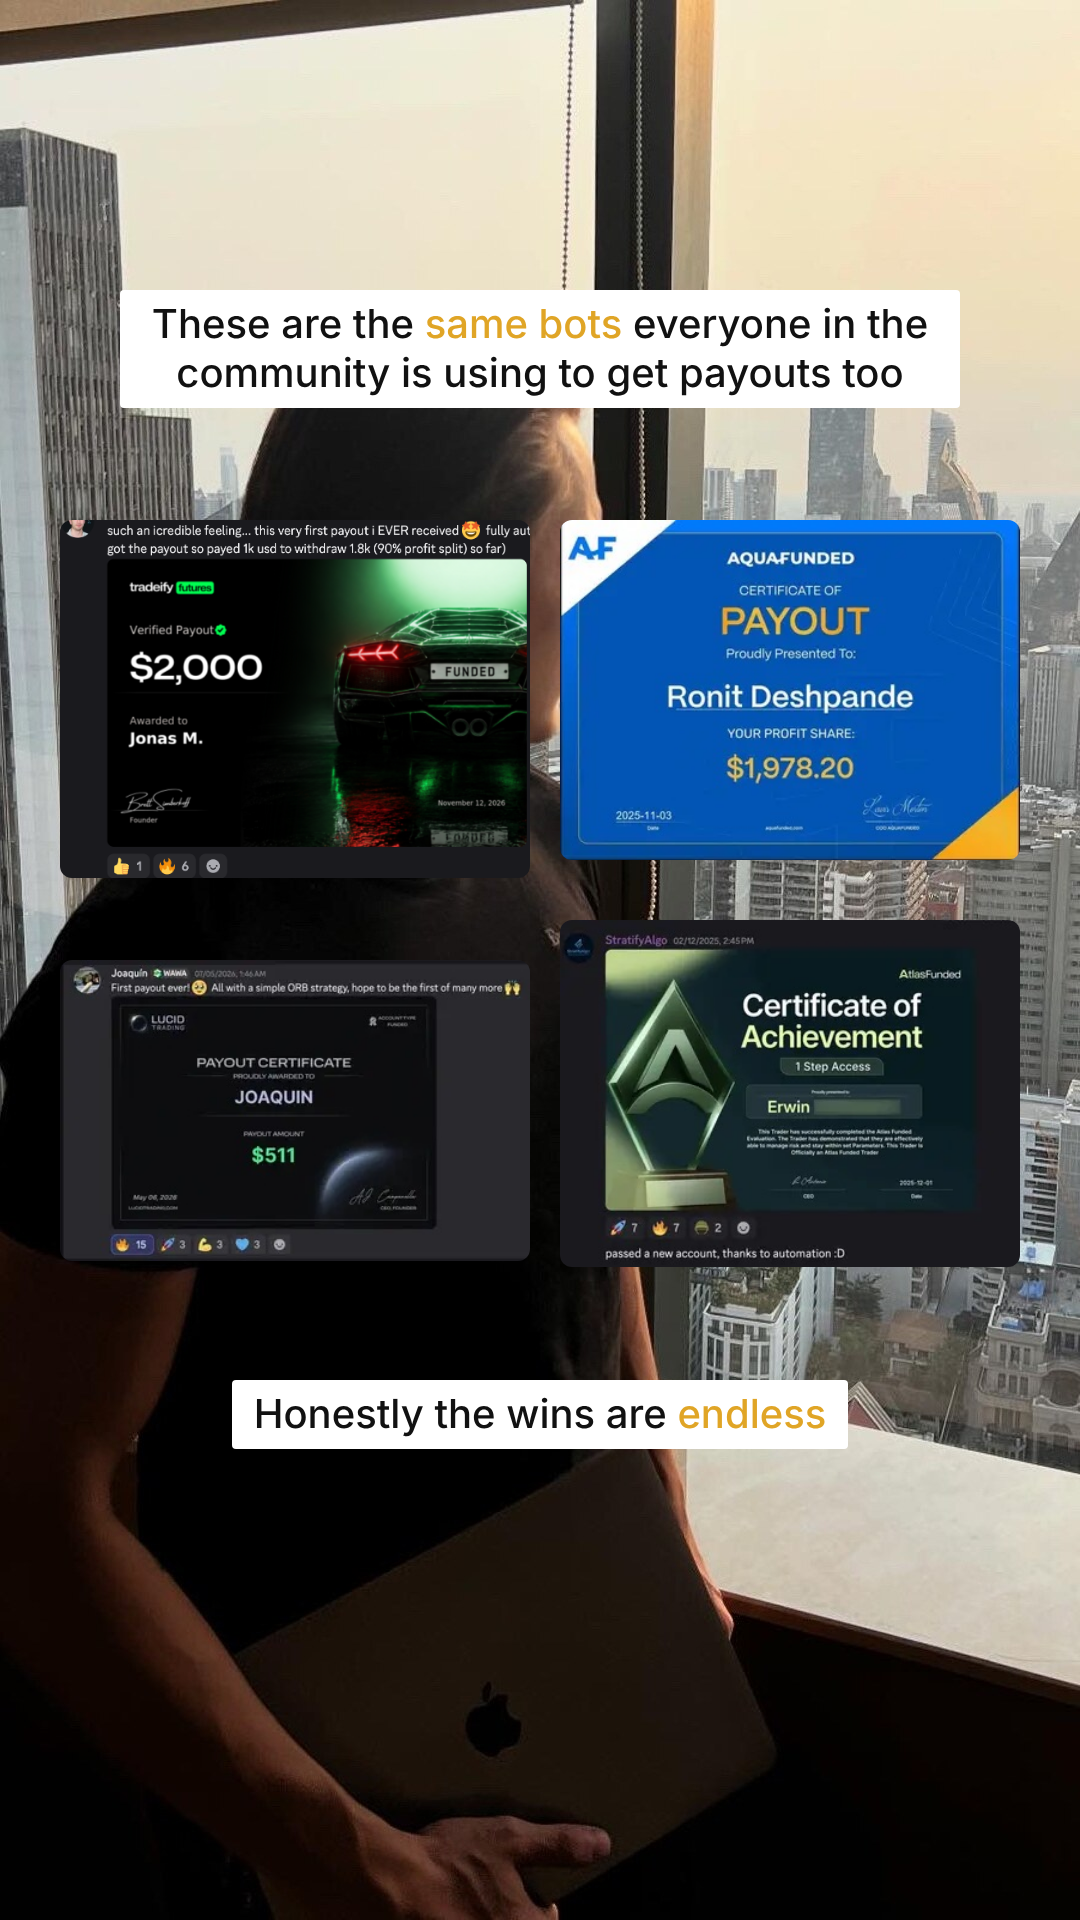
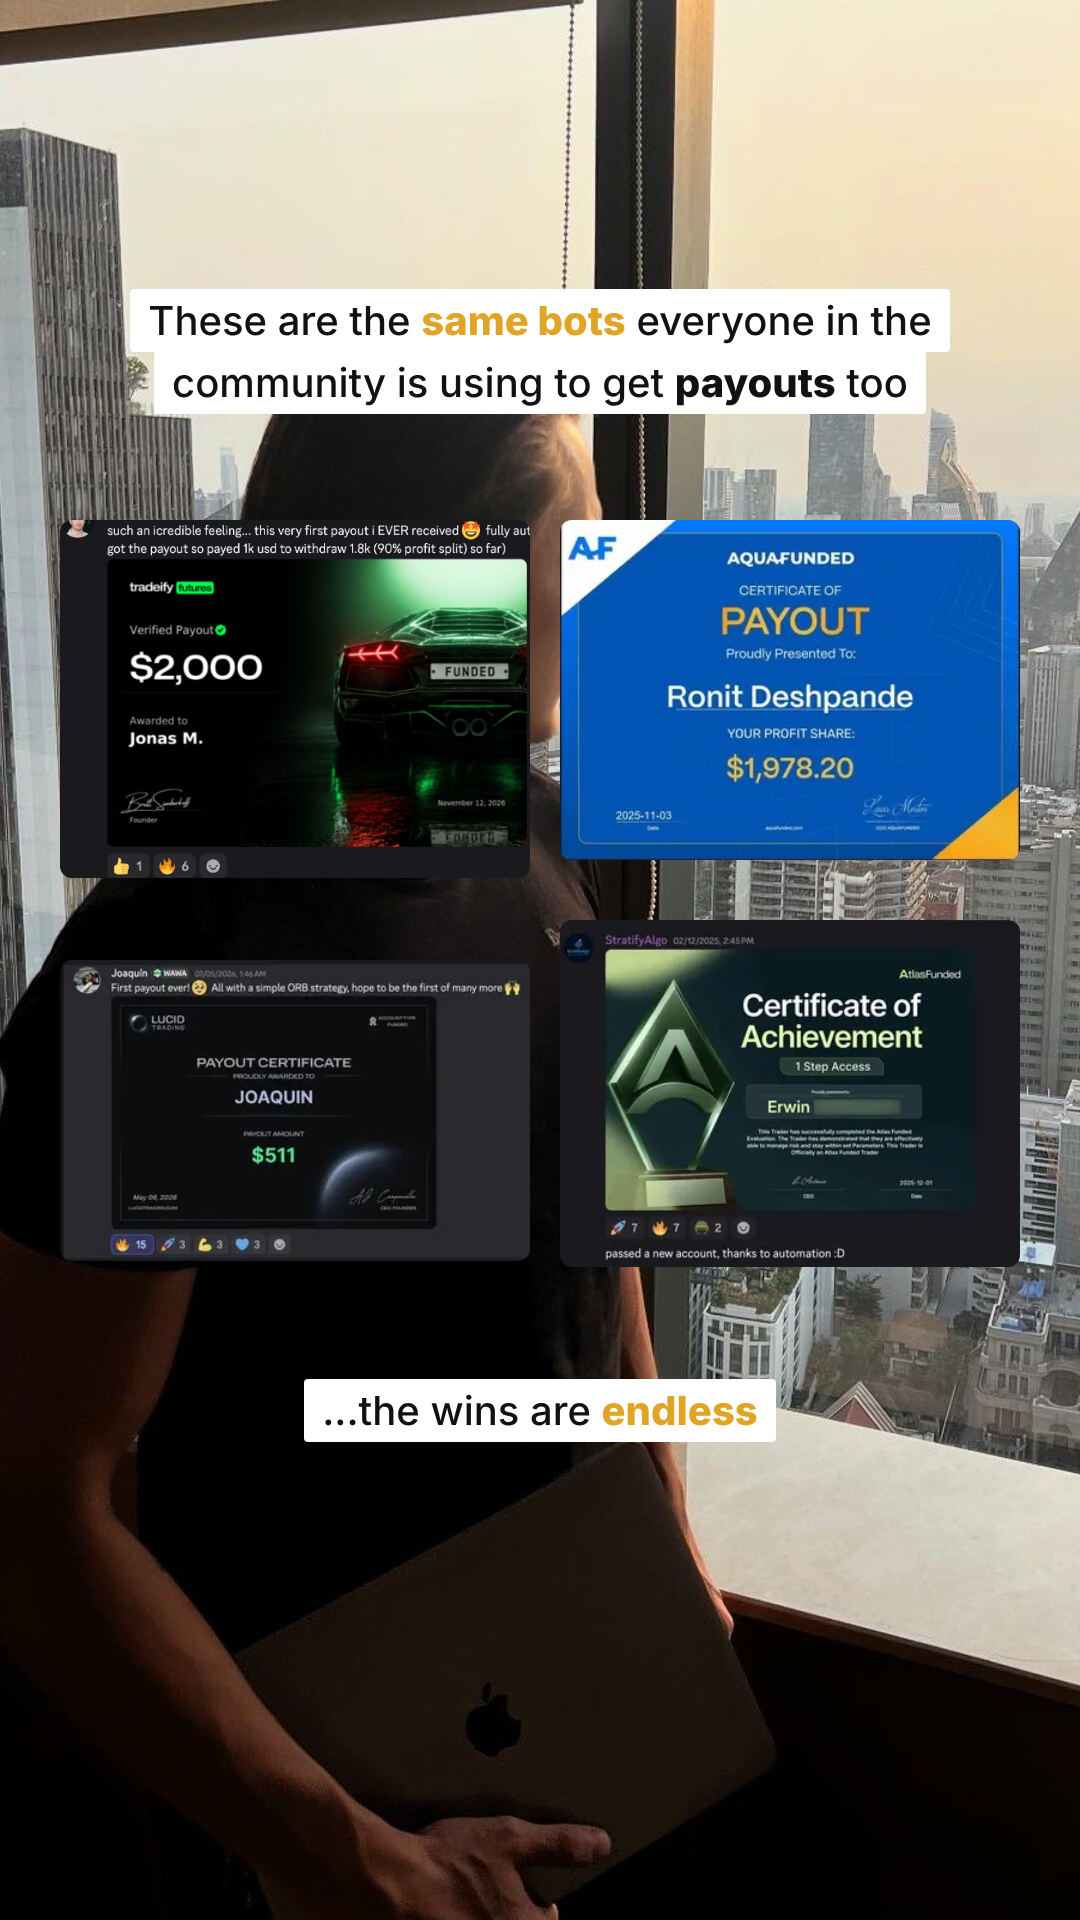
Bots sequence: pool back on frame 1, tight text boxes, bold emphasis
Claude-Session: https://claude.ai/code/session_015aTEPYQAHmzhiX45pd5jFL

Changed region(s): [[0.0917, 0.1562, 0.8861, 0.2188], [0.2139, 0.7188, 0.7944, 0.7812]]

diff --git a/sequences/2026-11-23_soft_bots-i-use/frames/03.html b/sequences/2026-11-23_soft_bots-i-use/frames/03.html
@@ -1,11 +1,11 @@
 <html><head><link rel="stylesheet" href="style.css"></head><body>
 <div class="bg" style="background-image:url(../assets/window.jpg)"></div>
 <div class="stack" style="top:290px">
-<div class="t">These are the <em>same bots</em> everyone in the community is using to get payouts too</div>
+<div class="t"><span>These are the <b><em>same bots</em></b> everyone in the community is using to get <b>payouts</b> too</span></div>
 </div>
 <div class="card" style="left:60px;top:520px;width:470px"><img src="../../../03-backgrounds-larp/student-results/Screenshot 2569-11-13 at 11.26.11.png"></div>
 <div class="card" style="left:560px;top:520px;width:460px"><img src="../../../03-backgrounds-larp/student-results/member24.jpeg"></div>
 <div class="card" style="left:60px;top:960px;width:470px"><img src="../../../03-backgrounds-larp/student-results/member2.jpeg"></div>
 <div class="card" style="left:560px;top:920px;width:460px"><img src="../../../03-backgrounds-larp/student-results/member18.jpeg"></div>
-<div class="stack" style="top:1380px"><div class="t">Honestly the wins are <em>endless</em></div></div>
+<div class="stack" style="top:1380px"><div class="t"><span>...the wins are <b><em>endless</em></b></span></div></div>
 </body></html>

diff --git a/sequences/2026-11-23_soft_bots-i-use/frames/02.html b/sequences/2026-11-23_soft_bots-i-use/frames/02.html
@@ -1,10 +1,10 @@
 <html><head><link rel="stylesheet" href="style.css"></head><body>
 <div class="bg" style="background-image:url(../assets/cafe.jpg)"></div>
 <div class="stack" style="top:290px">
-<div class="t">I don't run 50 bots. I only use <em>3-4</em></div>
-<div class="t">Different bots and strategies I've personally built over the last <em>2.5 years</em></div>
-<div class="t">Because I didn't want to spend hours in front of the charts</div>
-<div class="t">I wanted to make money <em>passively</em></div>
+<div class="t"><span>I don't run 50 bots. I only use <b><em>3-4</em></b></span></div>
+<div class="t"><span>Different bots and strategies I've personally built over the last <em>2.5 years</em></span></div>
+<div class="t"><span>Because I didn't want to spend <b>hours</b> in front of the charts</span></div>
+<div class="t"><span><b>I wanted to make money <em>passively</em></b></span></div>
 </div>
 <div class="card" style="left:70px;top:1100px;width:450px"><img src="../../../03-backgrounds-larp/student-results/member6.jpeg"></div>
 <div class="card" style="left:560px;top:1100px;width:450px"><img src="../../../03-backgrounds-larp/student-results/member9.jpeg"></div>

diff --git a/sequences/2026-11-23_soft_bots-i-use/frames/style.css b/sequences/2026-11-23_soft_bots-i-use/frames/style.css
@@ -1,8 +1,10 @@
 *{margin:0;padding:0;box-sizing:border-box}
 html,body{width:1080px;height:1920px;overflow:hidden;background:#000}
 .bg{position:absolute;inset:0;background-size:cover;background-position:center}
-.stack{position:absolute;left:0;right:0;display:flex;flex-direction:column;align-items:center;gap:16px;padding:0 120px}
-.t{font-family:Inter,sans-serif;font-weight:500;color:#111;background:#fff;font-size:40px;line-height:1.22;text-align:center;padding:10px 22px;border-radius:4px;max-width:840px}
+.stack{position:absolute;left:0;right:0;display:flex;flex-direction:column;align-items:center;gap:8px;padding:0 80px}
+.t{font-family:Inter,sans-serif;font-weight:500;color:#111;font-size:40px;line-height:1.55;text-align:center;max-width:900px;text-wrap:balance}
+.t span{background:#fff;padding:7px 18px;border-radius:4px;-webkit-box-decoration-break:clone;box-decoration-break:clone}
+.t b{font-weight:800}
 .t em{font-style:normal;color:#e0a526}
 .card{position:absolute;border-radius:12px;overflow:hidden}
 .card img{display:block;width:100%}

diff --git a/sequences/2026-11-23_soft_bots-i-use/frames/01.html b/sequences/2026-11-23_soft_bots-i-use/frames/01.html
@@ -1,7 +1,7 @@
 <html><head><link rel="stylesheet" href="style.css"></head><body>
-<div class="bg" style="background-image:url(../assets/suit.jpg)"></div>
-<div class="stack" style="top:1150px">
-<div class="t">Been getting a lot of DMs about my bots lately</div>
-<div class="t">Which ones I actually run, what I use to pass challenges, how I stopped touching the charts</div>
-<div class="t">So here's the honest answer</div>
+<div class="bg" style="background-image:url(../assets/pool.jpg);background-position:60% center"></div>
+<div class="stack" style="top:300px">
+<div class="t"><span>Been getting a lot of DMs about my <b>bots</b> lately</span></div>
+<div class="t"><span>Which ones I actually run, what I use to <b>pass challenges</b>, how I stopped touching the charts</span></div>
+<div class="t"><span>So here's the honest answer</span></div>
 </div></body></html>

diff --git a/sequences/2026-11-23_soft_bots-i-use/frames/04.html b/sequences/2026-11-23_soft_bots-i-use/frames/04.html
@@ -1,7 +1,7 @@
 <html><head><link rel="stylesheet" href="style.css"></head><body>
 <div class="bg" style="background-image:url(../assets/walk.jpg)"></div>
 <div class="stack" style="top:300px">
-<div class="t">If you want to use them yourself to get your <em>first payout</em> or pass a funded account</div>
-<div class="t">Here's the link</div>
-<div class="t">Just take them. No gatekeeping.</div>
+<div class="t"><span>If you want to use them yourself to get your <b><em>first payout</em></b> or pass a funded account</span></div>
+<div class="t"><span>Here's the link</span></div>
+<div class="t"><span>Just take them. <b>No gatekeeping.</b></span></div>
 </div></body></html>
